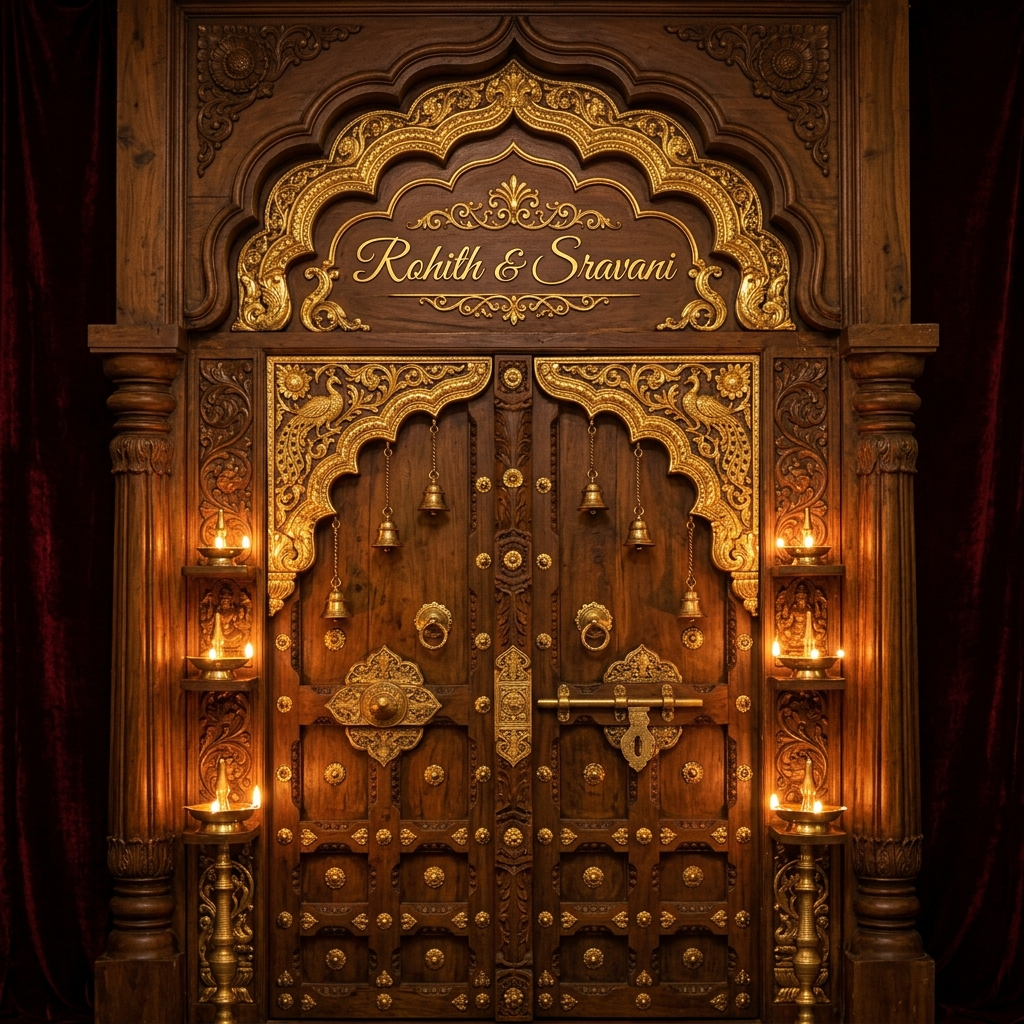
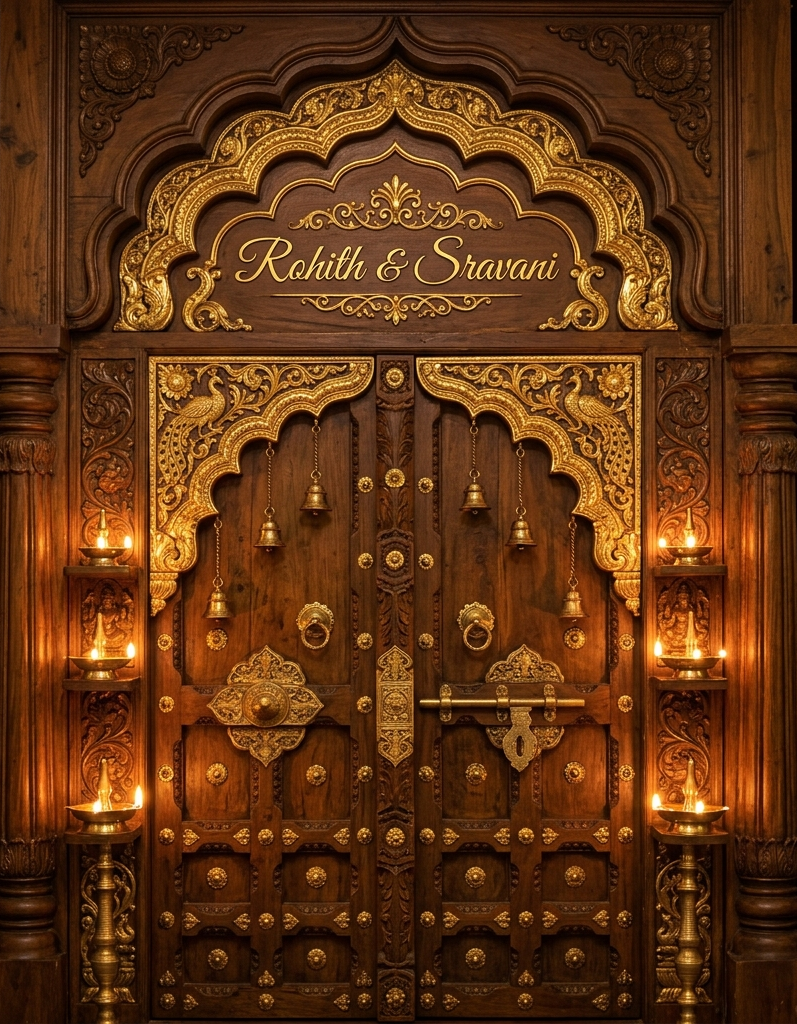
added door

diff --git a/south-indian-royal-mandap.html b/south-indian-royal-mandap.html
@@ -232,21 +232,33 @@
       height: 100%;
       background-color: var(--bg-midnight);
       background-image: radial-gradient(circle at 14px 14px, rgba(242, 184, 16, .2) 2px, transparent 3px), url('images/darbar_door1.png');
-      background-size: 44px 44px, auto 100%;
+      background-size: 44px 44px, 200% 100%;
       background-repeat: repeat, no-repeat;
-      box-shadow: inset 0 0 100px rgba(0, 0, 0, 0.95);
+      box-shadow: inset 0 0 60px rgba(0, 0, 0, 0.85);
       transition: transform 2.6s cubic-bezier(0.22, 1, 0.36, 1);
       overflow: hidden;
     }
 
     .door.l {
       border-right: 2px solid var(--gold-zari);
-      background-position: 0 0, left center;
+      background-position: 0 0, left top;
     }
 
     .door.r {
       border-left: 2px solid var(--gold-zari);
-      background-position: 0 0, right center;
+      background-position: 0 0, right top;
+    }
+
+    @media (max-width: 600px) {
+      .door {
+        background-size: 44px 44px, 240% 100% !important;
+      }
+      .door.l {
+        background-position: 0 0, left top !important;
+      }
+      .door.r {
+        background-position: 0 0, right top !important;
+      }
     }
 
     .door-frame {
